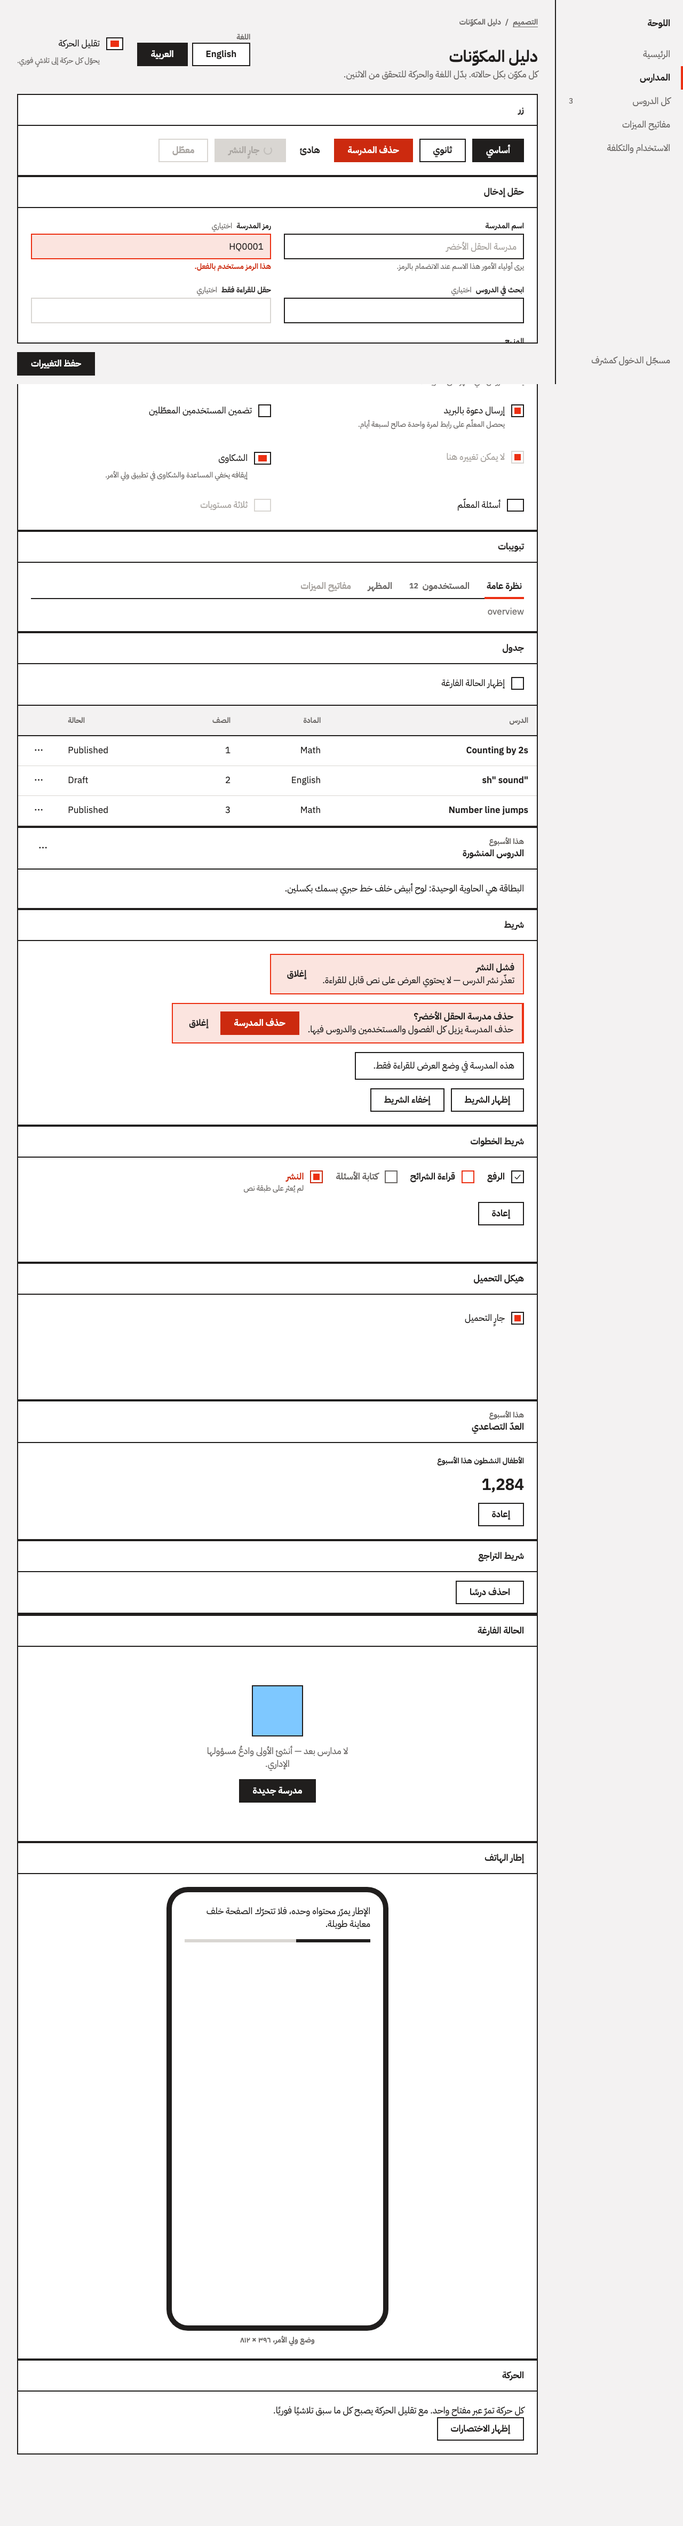
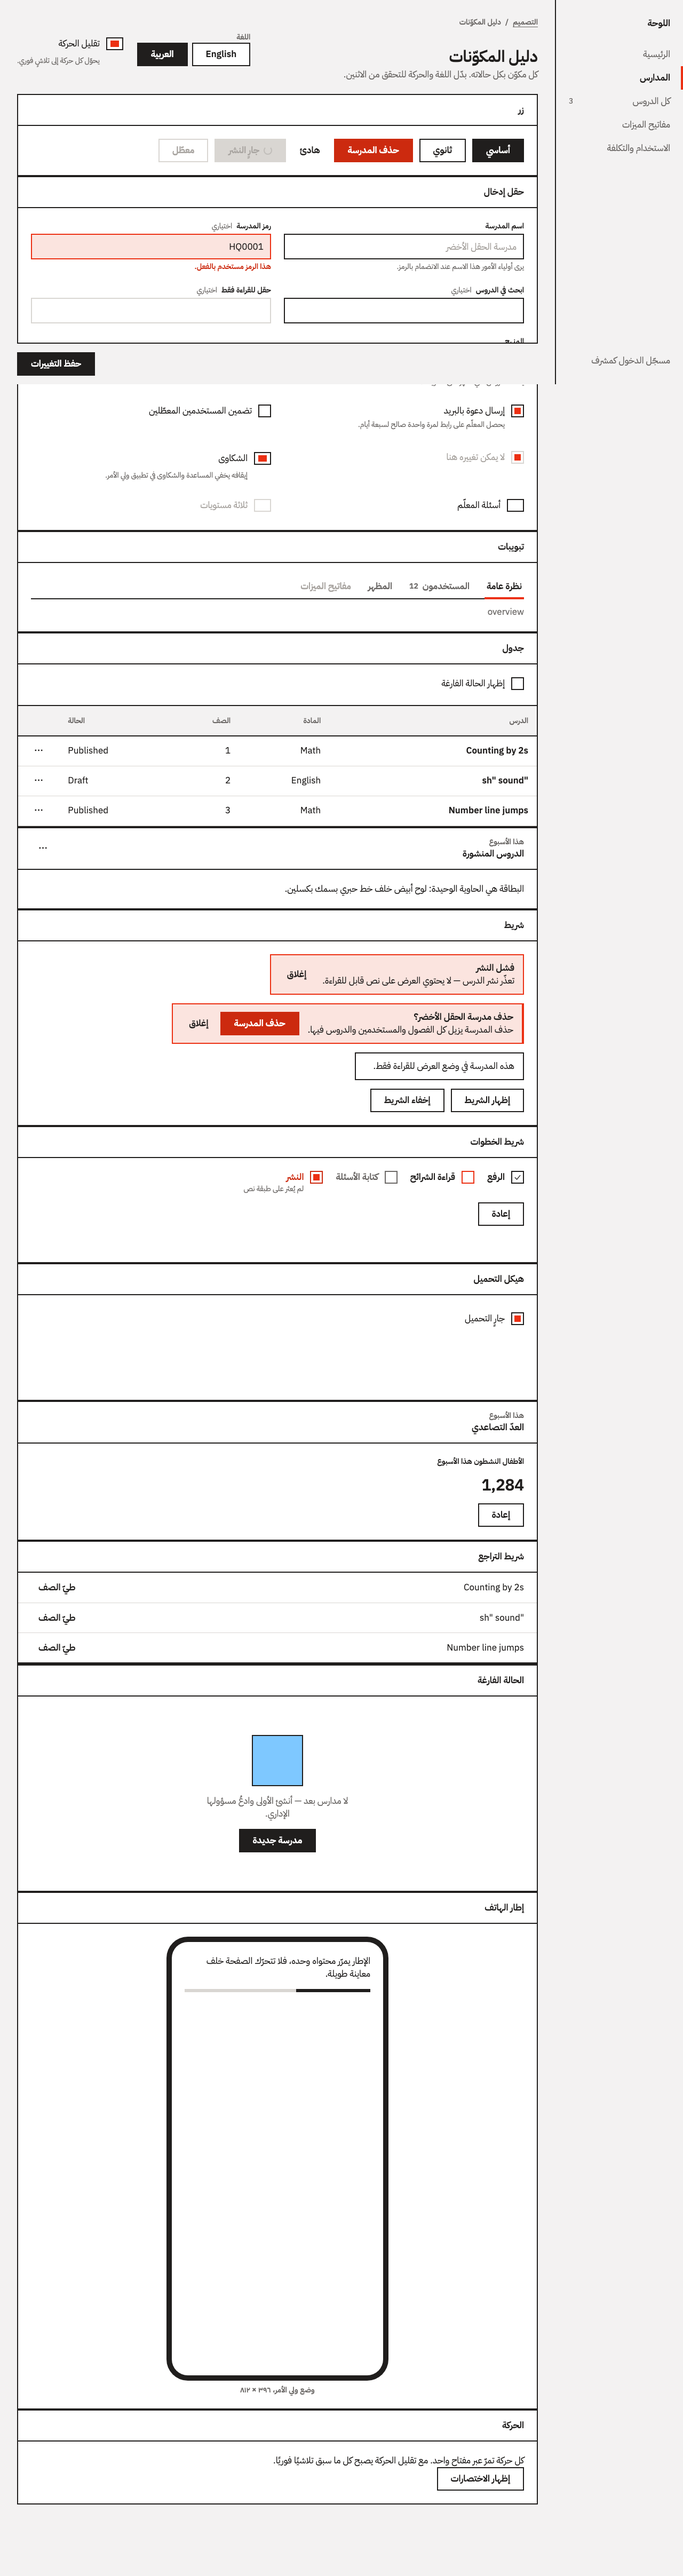
test(dashboard): cover rowCollapse and demo it in the styleguide
`rowCollapse` was the one exported motion directive with no spec and no place in
the styleguide, so nothing would have caught it breaking. It now has a spec for
the animate-then-remove contract, and the Undo strip section demonstrates the pair
a destructive-but-undoable action actually uses: remove a row, it collapses, the
Undo strip counts down, Undo restores it.

diff --git a/dashboard/src/app/ui/motion/motion.spec.ts b/dashboard/src/app/ui/motion/motion.spec.ts
@@ -1,4 +1,4 @@
-import { ChangeDetectionStrategy, Component, signal } from '@angular/core';
+import { ChangeDetectionStrategy, Component, signal, viewChildren } from '@angular/core';
 import { TestBed } from '@angular/core/testing';
 import { screen } from '@testing-library/angular';
 import userEvent from '@testing-library/user-event';
@@ -11,10 +11,18 @@ import { ShakeDirective } from './shake.directive';
 import { ListStaggerDirective } from './list-stagger.directive';
 import { ExpandBandDirective } from './expand-band.directive';
 import { PageEnterDirective } from './page-enter.directive';
+import { RowCollapseDirective } from './row-collapse.directive';
 
 @Component({
   selector: 'hq-motion-host',
-  imports: [CountUpDirective, ShakeDirective, ListStaggerDirective, ExpandBandDirective, PageEnterDirective],
+  imports: [
+    CountUpDirective,
+    ShakeDirective,
+    ListStaggerDirective,
+    ExpandBandDirective,
+    PageEnterDirective,
+    RowCollapseDirective,
+  ],
   changeDetection: ChangeDetectionStrategy.OnPush,
   template: `
     <section hqPageEnter="forward" data-testid="page"></section>
@@ -26,6 +34,9 @@ import { PageEnterDirective } from './page-enter.directive';
       <li>three</li>
     </ul>
     <div [hqExpandBand]="bandOpen()" data-testid="band">Could not publish</div>
+    @for (row of rows(); track row) {
+      <p #collapse="hqRowCollapse" hqRowCollapse [attr.data-row]="row">{{ row }}</p>
+    }
     <button type="button" (click)="errorId.set('e2')">fail again</button>
   `,
 })
@@ -33,6 +44,8 @@ class MotionHost {
   readonly total = signal(120);
   readonly errorId = signal<string | null>(null);
   readonly bandOpen = signal(false);
+  readonly rows = signal<readonly string[]>(['alpha', 'beta']);
+  readonly collapsers = viewChildren(RowCollapseDirective);
 }
 
 describe('motion', () => {
@@ -85,6 +98,22 @@ describe('motion', () => {
     fixture.detectChanges();
 
     expect(band.hidden).toBe(false);
+  });
+
+  it('collapses a row before the caller removes it', async () => {
+    const { fixture } = await renderHq(MotionHost);
+    const host = fixture.componentInstance;
+
+    expect(document.querySelector('[data-row="alpha"]')).not.toBeNull();
+
+    // The caller awaits the collapse, then drops the model — a removed DOM node
+    // cannot animate its own exit.
+    await host.collapsers()[0]?.collapse();
+    host.rows.set(['beta']);
+    fixture.detectChanges();
+
+    expect(document.querySelector('[data-row="alpha"]')).toBeNull();
+    expect(document.querySelector('[data-row="beta"]')).not.toBeNull();
   });
 
   it('sets the page-enter direction so RTL mirrors without a second animation', async () => {

diff --git a/dashboard/src/app/styleguide/styleguide.page.ts b/dashboard/src/app/styleguide/styleguide.page.ts
@@ -1,5 +1,5 @@
 /* hq-flag: none (shell) — the styleguide is not a product feature and never ships to production. */
-import { ChangeDetectionStrategy, Component, computed, inject, signal } from '@angular/core';
+import { ChangeDetectionStrategy, Component, computed, inject, signal, viewChildren } from '@angular/core';
 import { toSignal } from '@angular/core/rxjs-interop';
 import { TranslocoPipe, TranslocoService } from '@jsverse/transloco';
 import { LanguageService } from '../core/i18n/language.service';
@@ -16,6 +16,7 @@ import {
   PageComponent,
   PhoneFrameComponent,
   ProgressBarComponent,
+  RowCollapseDirective,
   SelectComponent,
   ShortcutsDialogComponent,
   SkeletonComponent,
@@ -71,6 +72,7 @@ interface DemoLesson {
     NavComponent,
     ShortcutsDialogComponent,
     CountUpDirective,
+    RowCollapseDirective,
   ],
   changeDetection: ChangeDetectionStrategy.OnPush,
   templateUrl: './styleguide.page.html',
@@ -119,6 +121,12 @@ export class StyleguidePage {
   protected readonly countUpKey = signal(0);
   protected readonly emptyTable = signal(false);
   protected readonly stepPhase = signal(0);
+  protected readonly collapsibleRows = signal<readonly string[]>([
+    'Counting by 2s',
+    '"sh" sound',
+    'Number line jumps',
+  ]);
+  private readonly rowCollapsers = viewChildren(RowCollapseDirective);
 
   protected readonly curriculumOptions = computed<readonly SelectOption<'american' | 'british'>[]>(() => {
     const t = this.t();
@@ -220,5 +228,18 @@ export class StyleguidePage {
 
   protected trackLesson(lesson: DemoLesson): string {
     return lesson.id;
+  }
+
+  /** The `rowCollapse` contract: animate first, then drop the model. */
+  protected async removeRow(row: string): Promise<void> {
+    const index = this.collapsibleRows().indexOf(row);
+    await this.rowCollapsers().at(index)?.collapse();
+    this.collapsibleRows.update((rows) => rows.filter((candidate) => candidate !== row));
+    this.undoOpen.set(true);
+  }
+
+  protected restoreRows(): void {
+    this.collapsibleRows.set(['Counting by 2s', '"sh" sound', 'Number line jumps']);
+    this.undoOpen.set(false);
   }
 }

diff --git a/dashboard/src/app/styleguide/styleguide.page.html b/dashboard/src/app/styleguide/styleguide.page.html
@@ -238,15 +238,26 @@
         </div>
       </hq-card>
 
-      <!-- Undo strip -->
+      <!-- Row collapse + undo strip: the pair a destructive-but-undoable action uses -->
       <hq-card [title]="'styleguide.sections.undoStrip' | transloco" [flush]="true">
-        <div class="sg__row sg__row--pad">
-          <hq-button (pressed)="undoOpen.set(true)">{{ 'styleguide.undo.trigger' | transloco }}</hq-button>
-        </div>
+        <ul class="sg__rows">
+          @for (row of collapsibleRows(); track row) {
+            <li hqRowCollapse class="sg__collapsible">
+              <span>{{ row }}</span>
+              <hq-button variant="quiet" (pressed)="removeRow(row)">{{
+                'styleguide.motion.rowCollapse' | transloco
+              }}</hq-button>
+            </li>
+          } @empty {
+            <li class="sg__collapsible">
+              <hq-button (pressed)="restoreRows()">{{ 'styleguide.motion.replay' | transloco }}</hq-button>
+            </li>
+          }
+        </ul>
         <hq-undo-strip
           [open]="undoOpen()"
           [message]="'styleguide.undo.message' | transloco"
-          (undone)="undoOpen.set(false)"
+          (undone)="restoreRows()"
           (expired)="undoOpen.set(false)"
         />
       </hq-card>

diff --git a/dashboard/src/app/styleguide/styleguide.page.scss b/dashboard/src/app/styleguide/styleguide.page.scss
@@ -86,3 +86,21 @@
   gap: var(--hq-space-16);
   padding: var(--hq-space-24);
 }
+
+.sg__rows {
+  border-block-end: var(--hq-size-rule) solid var(--hq-color-line);
+}
+
+.sg__collapsible {
+  display: flex;
+  align-items: center;
+  justify-content: space-between;
+  gap: var(--hq-space-16);
+  overflow: hidden;
+  min-block-size: var(--hq-size-row-height);
+  padding-inline: var(--hq-space-24);
+
+  & + & {
+    border-block-start: var(--hq-size-rule-thin) solid var(--hq-color-rule);
+  }
+}
